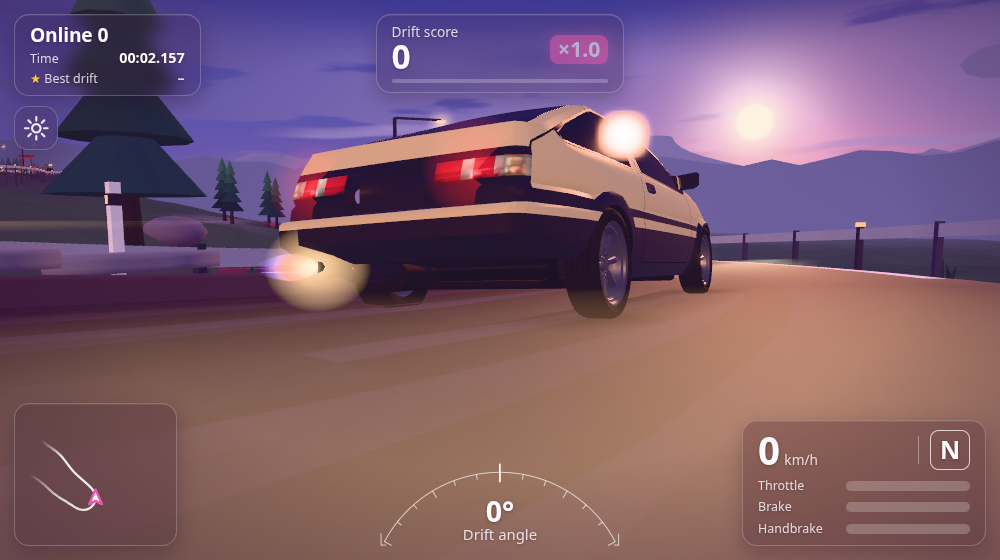
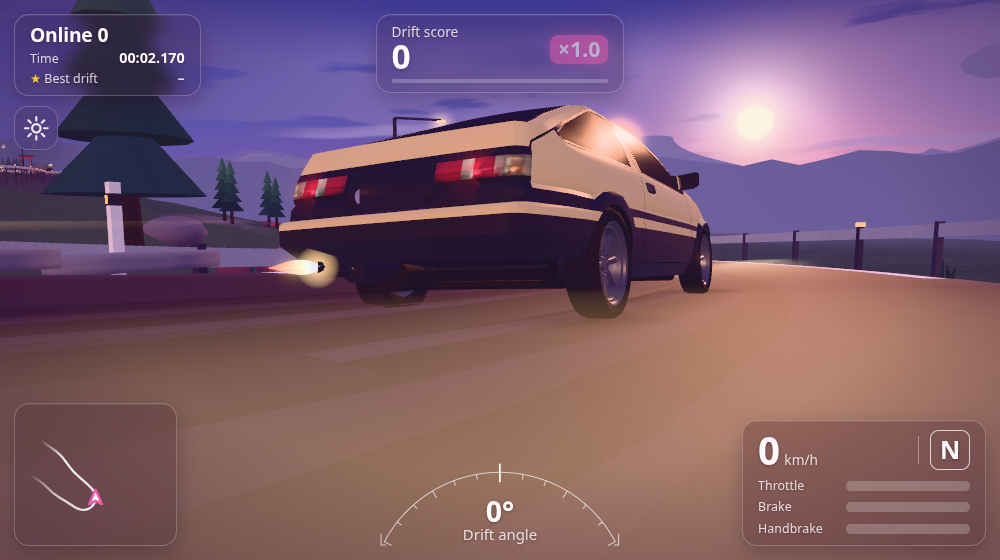
Review fixes for the car lights: the bright ball beside the window was the sun's highlight on the side glass (specular turned down), brake lamp pink-red and 3.8x brighter when braking, a short sharp flame cone (15 to 30 cm, 2 to 4 frames, small flash, no fog ball); tests; pictures; STATE

Changed region(s): [[0.403, 0.1821, 0.682, 0.3643], [0.248, 0.2732, 0.372, 0.5768], [0.155, 0.0911, 0.186, 0.1214]]

diff --git a/game/view/carfx.js b/game/view/carfx.js
@@ -69,11 +69,11 @@ const poolTexture = () => canvasTexture(128, 256, (x, w, h) => {
   }
   x.putImageData(img, 0, 0);
 });
-const flameTexture = () => canvasTexture(64, 64, (x, w, h) => {
-  // a short tongue seen from the side: white-blue core at the pipe (bottom), yellow, orange at the edge, gone at the top
-  const g = x.createRadialGradient(w / 2, h * 0.92, 0, w / 2, h * 0.92, h * 0.85);
-  g.addColorStop(0, 'rgba(225,235,255,1)'); g.addColorStop(0.18, 'rgba(255,230,150,1)'); g.addColorStop(0.45, 'rgba(255,135,40,0.85)'); g.addColorStop(0.75, 'rgba(120,90,255,0.25)'); g.addColorStop(1, 'rgba(60,40,200,0)');
-  x.fillStyle = g; x.beginPath(); x.moveTo(w * 0.5, 0); x.bezierCurveTo(w * 1.05, h * 0.45, w * 0.8, h, w * 0.5, h); x.bezierCurveTo(w * 0.2, h, -w * 0.05, h * 0.45, w * 0.5, 0); x.fill();
+const flameTexture = () => canvasTexture(64, 128, (x, w, h) => {
+  // a sharp tongue seen from the side, the root at the pipe (bottom) and the tip at the top: blue at the root, white-yellow, orange at the tip; hard edges (no fog)
+  const g = x.createLinearGradient(0, h, 0, 0);
+  g.addColorStop(0, 'rgba(110,150,255,1)'); g.addColorStop(0.18, 'rgba(170,200,255,1)'); g.addColorStop(0.4, 'rgba(255,235,170,1)'); g.addColorStop(0.7, 'rgba(255,150,50,1)'); g.addColorStop(1, 'rgba(255,100,20,0.9)');
+  x.fillStyle = g; x.beginPath(); x.moveTo(w * 0.5, 0); x.bezierCurveTo(w * 0.62, h * 0.3, w * 0.98, h * 0.62, w * 0.62, h); x.lineTo(w * 0.38, h); x.bezierCurveTo(w * 0.02, h * 0.62, w * 0.38, h * 0.3, w * 0.5, 0); x.fill();
 });
 const glowTexture = () => canvasTexture(64, 64, (x, w) => {
   const g = x.createRadialGradient(w / 2, w / 2, 0, w / 2, w / 2, w / 2); g.addColorStop(0, 'rgba(255,255,255,1)'); g.addColorStop(0.3, 'rgba(255,255,255,0.45)'); g.addColorStop(1, 'rgba(255,255,255,0)');
@@ -267,7 +267,7 @@ export function dressCar(group, spec = {}, { lite = false } = {}) {
   }
   if (spec.glassUv) {
     let env = null; group.traverse((o) => { if (o.isMesh && !env) env = o.material?.envMap ?? null; });
-    splitPalette(group, spec.glassUv, new THREE.MeshStandardMaterial({ name: 'fx_glass', color: 0x05070b, metalness: 0, roughness: 0.06, envMap: env, envMapIntensity: 0.32 }));
+    splitPalette(group, spec.glassUv, new THREE.MeshPhysicalMaterial({ name: 'fx_glass', color: 0x05070b, metalness: 0, roughness: 0.3, specularIntensity: 0.18, envMap: env, envMapIntensity: 0.9 }));   // not a mirror: the sun's direct highlight on a side window was a white-orange ball (with the bloom it looked like a light beside the car), so the specular is turned down and the sky reflection kept
   }
   const m = measure(group), { box } = m;
   const len = box.max.z - box.min.z, half = Math.max(0.3, m.halfTrack - 0.14);
@@ -347,7 +347,13 @@ export function carFx(car, spec = {}, { lite = false, listen = typeof window !==
     if (!o.isMesh) return;
     const own = (mat) => {
       if (!/^lamp_rear_/i.test(mat?.name ?? '')) return mat;
-      if (!brakeMats.has(mat)) { const c = mat.clone(); c.userData.base = Math.max(3.2, mat.emissiveIntensity); c.emissiveIntensity = c.userData.base; brakeMats.set(mat, c); }
+      if (!brakeMats.has(mat)) {
+        // the red lamp (the brake light): dim when only the lights are on, 3.5x brighter and a pink-red (a pure red over-exposed turns orange-white and the two states
+        // looked the same) when braking; the white parts (reverse, reflector) stay as they are
+        const c = mat.clone(), red = c.emissive && c.emissive.r > 0.8 && c.emissive.g < 0.3 && c.emissive.b < 0.3;
+        if (red) c.emissive.setRGB(1, 0.06, 0.16);
+        c.userData.base = red ? 1.7 : 2.2; c.userData.boost = red ? 3.8 : 1; c.emissiveIntensity = c.userData.base; brakeMats.set(mat, c);
+      }
       return brakeMats.get(mat);
     };
     o.material = Array.isArray(o.material) ? o.material.map(own) : own(o.material);
@@ -359,11 +365,11 @@ export function carFx(car, spec = {}, { lite = false, listen = typeof window !==
   const groundFlashMat = new THREE.MeshBasicMaterial({ name: 'fx_flash_ground', map: glowTexture(), color: new THREE.Color(1, 0.55, 0.2).multiplyScalar(0.5), transparent: true, blending: THREE.AdditiveBlending, depthWrite: false });
   const flames = tips.map((tip) => {
     const g = new THREE.Group(); g.position.copy(tip);
-    const plane = new THREE.PlaneGeometry(0.16, 0.3).translate(0, 0.15, 0).rotateX(-Math.PI / 2);   // 30 cm, pointing along -z (backwards)
+    const plane = new THREE.PlaneGeometry(0.13, 0.3).translate(0, 0.15, 0).rotateX(-Math.PI / 2);   // 30 cm long at most, pointing along -z (backwards)
     g.add(new THREE.Mesh(plane, flameMat), new THREE.Mesh(plane.clone().rotateZ(Math.PI / 2), flameMat));
-    const flash = new THREE.Sprite(flashMat); flash.scale.setScalar(0.3); g.add(flash);
+    const flash = new THREE.Sprite(flashMat); flash.scale.setScalar(0.2); g.add(flash);
     // warm on the road under the rear: NOT in the flame's group (that one is turned about the pipe at every pop)
-    const ground = new THREE.Mesh(flat(new THREE.PlaneGeometry(0.55, 0.55)), groundFlashMat); ground.position.set(tip.x, 0.02, tip.z - 0.1); ground.visible = false;
+    const ground = new THREE.Mesh(flat(new THREE.PlaneGeometry(0.3, 0.3)), groundFlashMat); ground.position.set(tip.x, 0.02, tip.z - 0.1); ground.visible = false;
     g.visible = false; g.userData.flash = flash; g.userData.ground = ground;
     return g;
   });
@@ -422,7 +428,7 @@ export function carFx(car, spec = {}, { lite = false, listen = typeof window !==
   // pops: one burst per event, its strength sets the size and one or two smaller after-bangs
   let queue = [], life = 0, strength = 0;
   const fire = (s) => {
-    life = 0.06 + 0.06 * s; strength = s;   // 60 to 120 ms
+    life = 0.033 + 0.033 * s; strength = s;   // 2 to 4 frames: a flame is only seen for an instant
     for (const f of flames) { f.visible = true; f.rotation.z = Math.random() * Math.PI; }
   };
   const onPop = (e) => {
@@ -442,7 +448,7 @@ export function carFx(car, spec = {}, { lite = false, listen = typeof window !==
     },
     update(dt, s) {
       const braking = s.brake > 0.1;
-      for (const mat of brakeMats.values()) mat.emissiveIntensity = mat.userData.base * (braking ? 2.5 : 1);
+      for (const mat of brakeMats.values()) mat.emissiveIntensity = mat.userData.base * (braking ? mat.userData.boost : 1);
       rearOpacity = braking ? 1 : 0.55; haloK = s.post ? 0.5 : 1;
       for (const h of halos) if (h.userData.rear) h.scale.setScalar(h.userData.base * (braking ? 1.6 : 1));   // braking: the glow jumps in size and strength
       // the headlight pool lies on the road: each of its points 1.5 cm over the ground under it (s.groundAt(x, z) in world space)
@@ -461,10 +467,10 @@ export function carFx(car, spec = {}, { lite = false, listen = typeof window !==
       for (const f of flames) {
         f.visible = on; f.userData.ground.visible = on;
         if (!on) continue;
-        const len = (0.7 + 0.6 * strength) * (0.7 + 0.3 * k);   // 20 to 40 cm
-        f.scale.set(0.8 + 0.4 * strength, 1, len);
-        f.userData.flash.scale.setScalar((0.2 + 0.25 * strength) * k);
-        groundFlashMat.opacity = 0.6 * k * strength;
+        const len = (0.5 + 0.5 * strength) * (0.8 + 0.2 * k);   // 15 to 30 cm
+        f.scale.set(0.7 + 0.3 * strength, 1, len);
+        f.userData.flash.scale.setScalar((0.1 + 0.12 * strength) * k);   // at most 22 cm
+        groundFlashMat.opacity = 0.15 * k * strength;
       }
       for (const l of lights) l.intensity = on ? 6 * strength * k : 0;
     },

diff --git a/docs/STATE.md b/docs/STATE.md
@@ -15,6 +15,11 @@ Updated 2026-11-26 (evening) by the building session. Every session updates this
   (over 55 % of idle to limit) and stronger with them; recorded pops play from `assets/sound/pops.json` when the file exists (waiting for the owner's
   download of Freesound 433584; `tools/sound/work.js` job `pops` cuts it), else the made crack. Underglow (C1): lies on `surfaceAt` to 0.0 mm; the
   drawn road has no bank yet (slice 3), so it is buried on one side and floats on the other at banked spots; measure again after slice 3.
+  Review fixes (same day): the white-orange ball beside the right rear window was NOT a halo (the front halos read 0 from behind, the rear ones 0.28 with bloom): a
+  ray through its pixel hit the car's side glass, hiding the glass removed it, switching its env reflection off did not: it was the sun's direct highlight
+  on the glass, so the glass is now a MeshPhysicalMaterial with `specularIntensity` 0.18 and roughness 0.3. The brake lamp: idle 1.7 and pink-red
+  (the red lamp's emissive set to 1, 0.06, 0.16: a pure red over-exposed turned orange-white), braking 3.8x; white lamp parts unchanged. The flame: a sharp
+  cone texture (blue at the root, orange at the tip), 15 to 30 cm, 2 to 4 frames, flash at most 22 cm, ground flash 30 cm at 15 % (no fog ball).
   Pictures `docs/screenshots/cars/ae86-lights-*.png`, `ae86-glow-banked-L.png`, `ae86-pop-rear.png`. No lens pattern (the model's lamps are flat colours
   in the palette). Not checked on a phone.
 - **Recorded engine and music (2026-11-26, downloads with the owner's yes):** the AE86 plays loops cut from a real recording (Honda F20C, Wikimedia,
